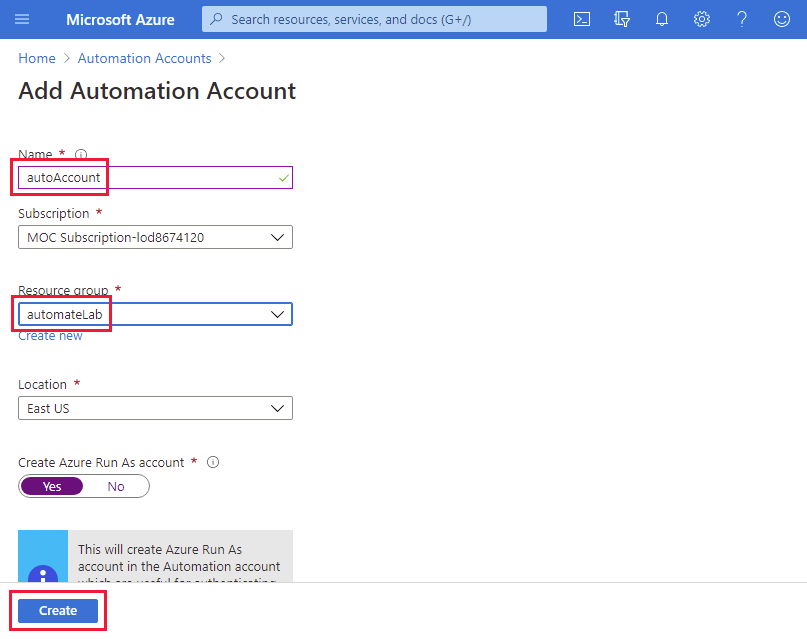
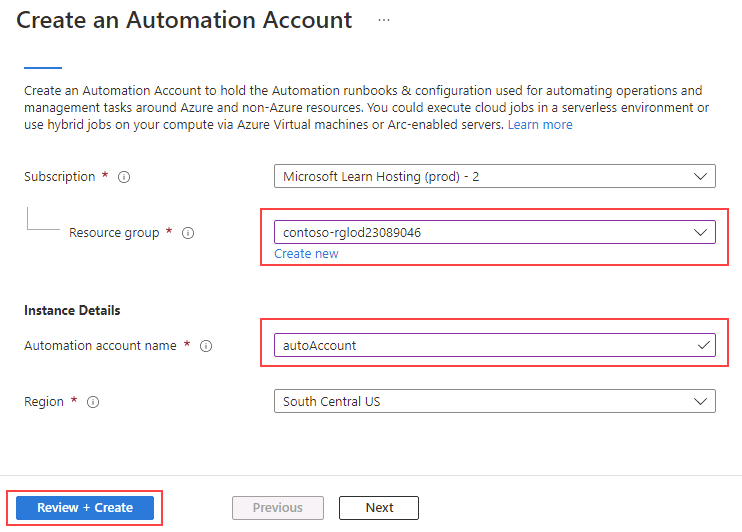
Updates

diff --git a/Instructions/Labs/13-deploy-automation-runbook-rebuild-indexes.md b/Instructions/Labs/13-deploy-automation-runbook-rebuild-indexes.md
@@ -20,13 +20,17 @@ You have been hired as a Senior Database Administrator to help automate day to d
 
     ![Screenshot of selecting the Automation Accounts.](../images/dp-300-module-13-lab-01.png)
 
-1. On the **Add Automation Account** page, enter the information below, and then select **Create**.
+1. On the **Create an Automation Account** page, enter the information below, and then select **Review + Create**.
 
-    - **Name:** autoAccount
     - **Resource Group:** starting with *automateLab*
+    - **Name:** autoAccount
     - **Location:** Use the default.
 
     ![Screenshot of the Add Automation Account screen.](../images/dp-300-module-13-lab-02.png)
+
+1. On the review page, select **Create**.
+
+    ![Screenshot of the Add Automation Account screen.](../images/dp-300-module-13-lab-29.png)
 
     > [!NOTE]
     > Your automation account should be created in around three minutes.
